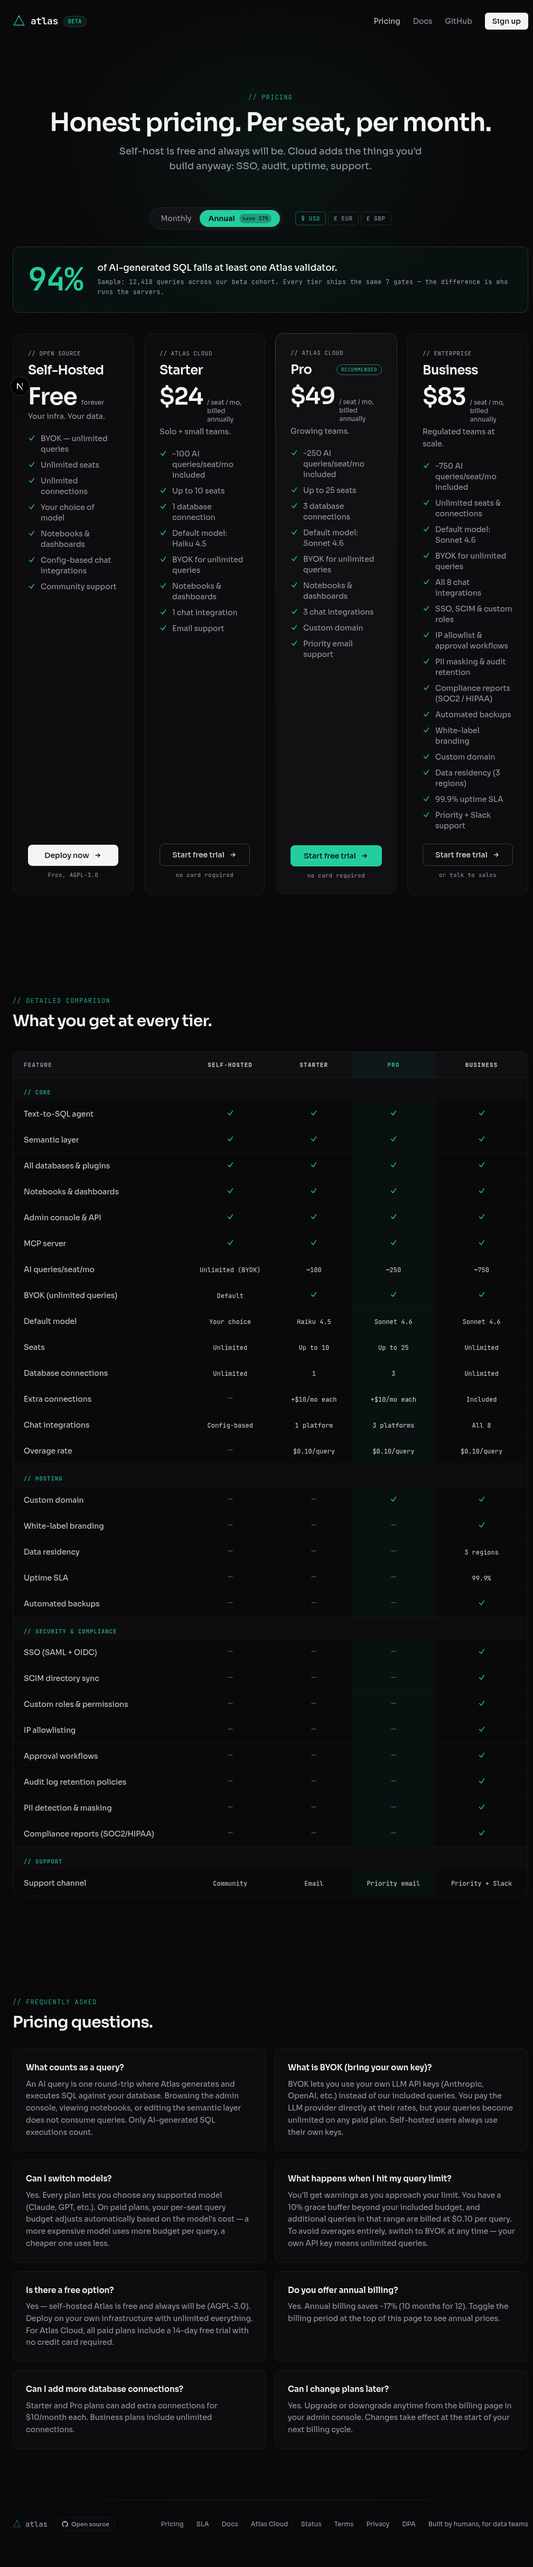
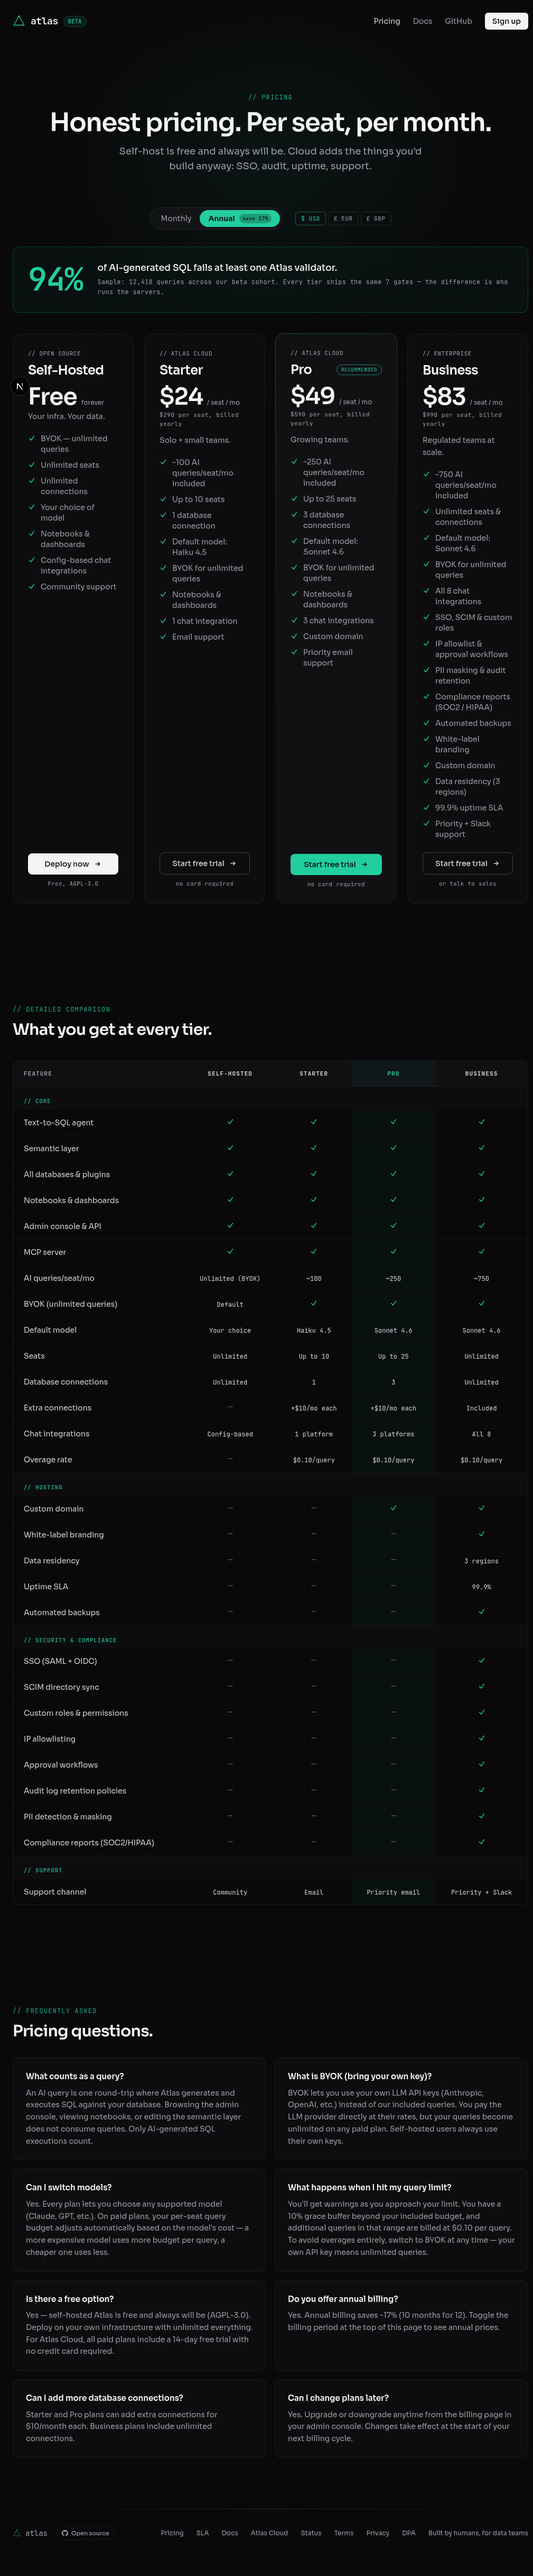
fix(www): #1910 review fold — annual total, aria-pressed toggles, mobile recommended
Code-review findings on PR #1917:

- Annual prices now display the actual yearly charge alongside the
  per-seat / per-month figure ("$590 per seat, billed yearly"). The
  rounding pivot is now at the annual total, with the per-month derived
  from it, so the displayed total matches Stripe's actual charge instead
  of drifting by ~$2/year on the monthly × 12 implication.
- Billing + currency toggles drop role="radiogroup" / role="radio".
  The buttons never implemented the WAI-ARIA arrow-key contract that
  pattern promises, so a screen reader user got the wrong-shape
  announcement. Switched to role="group" + aria-pressed, which is the
  honest representation of plain-tabbable segmented buttons.
- Mobile per-tier comparison cards now mark Pro with the same
  "recommended" pill + brand border the desktop table uses. The signal
  was being lost on phones, where most pricing-page traffic lives.

Plus: bg-brand/[0.04] → bg-brand/4 (canonical class lint), comment trims
where the JSX section markers were narrating rendered structure.

diff --git a/apps/www/src/app/pricing/pricing-content.tsx b/apps/www/src/app/pricing/pricing-content.tsx
@@ -256,16 +256,23 @@ function formatPrice(
   monthlyPrice: number | null,
   billing: BillingPeriod,
   currency: Currency,
-): { price: string; suffix: string } {
+): { price: string; suffix: string; annualTotal?: string } {
   if (monthlyPrice === null) {
     return { price: "Free", suffix: "forever" };
   }
   const symbol = CURRENCY_SYMBOL[currency];
   const rate = CURRENCY_RATE[currency];
   if (billing === "annual") {
-    // 10 months for 12 — show effective monthly rate
-    const effectiveMonthly = Math.round((monthlyPrice * 10 * rate) / 12);
-    return { price: `${symbol}${effectiveMonthly}`, suffix: "/ seat / mo, billed annually" };
+    // 10 months billed for 12. We round at the annual-total level so the
+    // displayed total matches Stripe's actual charge, then derive the
+    // per-month for tier-to-tier comparison.
+    const annual = Math.round(monthlyPrice * 10 * rate);
+    const effectiveMonthly = Math.round(annual / 12);
+    return {
+      price: `${symbol}${effectiveMonthly}`,
+      suffix: "/ seat / mo",
+      annualTotal: `${symbol}${annual} per seat, billed yearly`,
+    };
   }
   return { price: `${symbol}${Math.round(monthlyPrice * rate)}`, suffix: "/ seat / mo" };
 }
@@ -303,7 +310,7 @@ function BillingCurrencyToggle({
   return (
     <div className="animate-fade-in-up delay-300 mb-8 flex flex-col items-center justify-center gap-4 sm:flex-row sm:gap-6">
       <div
-        role="radiogroup"
+        role="group"
         aria-label="Billing period"
         className="inline-flex rounded-full border border-zinc-800 bg-zinc-900/60 p-1"
       >
@@ -311,8 +318,7 @@ function BillingCurrencyToggle({
           <button
             key={period}
             type="button"
-            role="radio"
-            aria-checked={billing === period}
+            aria-pressed={billing === period}
             onClick={() => onBillingChange(period)}
             className={`inline-flex items-center gap-2 rounded-full px-4 py-1.5 text-sm transition-colors ${
               billing === period
@@ -336,13 +342,12 @@ function BillingCurrencyToggle({
         ))}
       </div>
 
-      <div role="radiogroup" aria-label="Display currency" className="flex gap-1">
+      <div role="group" aria-label="Display currency" className="flex gap-1">
         {(Object.keys(CURRENCY_SYMBOL) as Currency[]).map((c) => (
           <button
             key={c}
             type="button"
-            role="radio"
-            aria-checked={currency === c}
+            aria-pressed={currency === c}
             onClick={() => onCurrencyChange(c)}
             className={`rounded-md border px-2.5 py-1 font-mono text-[11px] tracking-wider transition-colors ${
               currency === c
@@ -360,7 +365,7 @@ function BillingCurrencyToggle({
 
 function StatCard() {
   return (
-    <div className="animate-fade-in-up delay-400 mb-10 grid items-center gap-6 rounded-xl border border-brand/25 bg-brand/[0.04] p-6 md:grid-cols-[auto_1fr] md:gap-7 md:p-7">
+    <div className="animate-fade-in-up delay-400 mb-10 grid items-center gap-6 rounded-xl border border-brand/25 bg-brand/4 p-6 md:grid-cols-[auto_1fr] md:gap-7 md:p-7">
       <div className="font-mono text-5xl font-semibold tracking-tight text-brand md:text-[60px]">
         94%
       </div>
@@ -386,7 +391,7 @@ function TierCard({
   billing: BillingPeriod;
   currency: Currency;
 }) {
-  const { price, suffix } = formatPrice(tier.monthlyPrice, billing, currency);
+  const { price, suffix, annualTotal } = formatPrice(tier.monthlyPrice, billing, currency);
 
   let ctaStyle: string;
   if (tier.highlighted) {
@@ -424,6 +429,11 @@ function TierCard({
         </span>
         <span className="text-xs text-zinc-400">{suffix}</span>
       </div>
+      {annualTotal && (
+        <p className="mb-3 font-mono text-[11px] tracking-wider text-zinc-400">
+          {annualTotal}
+        </p>
+      )}
       <p className="mb-5 text-sm leading-relaxed text-zinc-400">{tier.tagline}</p>
       <ul className="mb-6 space-y-2.5">
         {tier.features.map((feature) => (
@@ -514,7 +524,6 @@ export function PricingContent() {
           What you get at every tier.
         </h2>
 
-        {/* Desktop table — sectioned by // core / // hosting / // security / // support */}
         <div className="hidden overflow-hidden rounded-xl border border-zinc-800/60 lg:block">
           <table className="w-full">
             <thead>
@@ -539,7 +548,7 @@ export function PricingContent() {
                 </th>
                 <th
                   scope="col"
-                  className="bg-brand/[0.04] px-5 py-4 text-center font-mono text-[11px] tracking-widest text-brand uppercase"
+                  className="bg-brand/4 px-5 py-4 text-center font-mono text-[11px] tracking-widest text-brand uppercase"
                 >
                   Pro
                 </th>
@@ -564,12 +573,19 @@ export function PricingContent() {
           {TIER_KEYS.map((tierKey) => (
             <div
               key={tierKey}
-              className="overflow-hidden rounded-xl border border-zinc-800/60 bg-zinc-900/30"
+              className={`overflow-hidden rounded-xl border bg-zinc-900/30 ${
+                tierKey === "pro" ? "border-brand/40" : "border-zinc-800/60"
+              }`}
             >
-              <div className="border-b border-zinc-800/60 px-5 py-3">
+              <div className="flex items-center justify-between gap-2 border-b border-zinc-800/60 px-5 py-3">
                 <h3 className="font-mono text-sm font-medium text-zinc-100">
                   {TIER_LABELS[tierKey]}
                 </h3>
+                {tierKey === "pro" && (
+                  <span className="rounded-full border border-brand/60 px-2 py-0.5 font-mono text-[9.5px] tracking-wider text-brand uppercase">
+                    recommended
+                  </span>
+                )}
               </div>
               <div className="px-5 pb-2">
                 {COMPARISON_SECTIONS.map((section) => (
@@ -646,7 +662,7 @@ function SectionRows({ section, isFirst }: { section: ComparisonSection; isFirst
               <ComparisonCell value={row.starter} />
             </span>
           </td>
-          <td className="bg-brand/[0.04] px-5 py-3 text-center">
+          <td className="bg-brand/4 px-5 py-3 text-center">
             <span className="inline-flex justify-center">
               <ComparisonCell value={row.pro} />
             </span>
